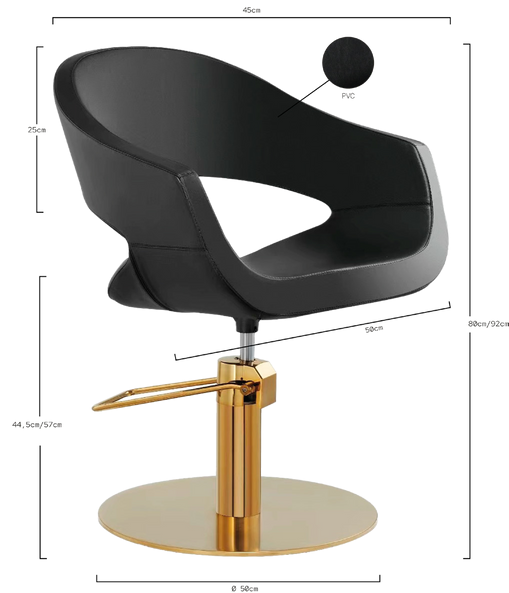
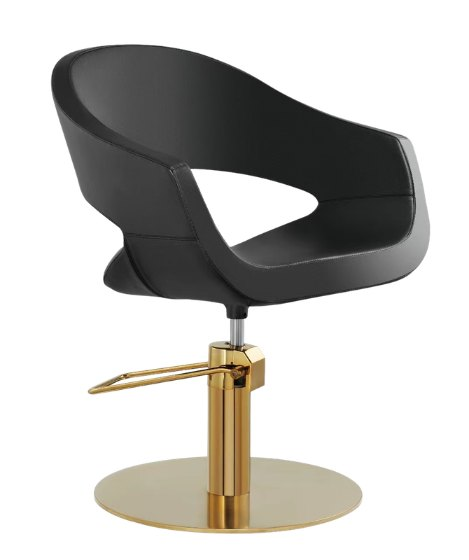
Fix foto FMP3/FMP4 + aggiunto FMP5 (Poltrone Lavoro)

diff --git a/index.html b/index.html
@@ -379,7 +379,7 @@ renderGroupedProducts(lavaggio, 'products-lavaggio');
 
 // ─── POLTRONE LAVORO ───
 // NB: sezione in costruzione — modelli caricati finora (gli altri in arrivo)
-const lavoro = [{"code":"FMP1","versions":[{"code":"FMP1A","col":"","price":"350€","img":"images-lavoro/pl_FMP1A.png"},{"code":"FMP1B","col":"","price":"340€","img":"images-lavoro/pl_FMP1B.png"},{"code":"FMP1C","col":"","price":"340€","img":"images-lavoro/pl_FMP1C.png"},{"code":"FMP1D","col":"","price":"350€","img":"images-lavoro/pl_FMP1D.png"},{"code":"FMP1E","col":"","price":"360€","img":"images-lavoro/pl_FMP1E.png"}]},{"code":"FMP2","versions":[{"code":"FMP2B","col":"","price":"360€","img":"images-lavoro/pl_FMP2B.png"},{"code":"FMP2A","col":"","price":"340€","img":"images-lavoro/pl_FMP2A.png"}]},{"code":"FMP3","single":true,"versions":[{"code":"FMP3","price":"340€","img":"images-lavoro/pl_FMP3.png","specs":"<b>Descrizione:</b> Sedia da taglio con schiuma iniettata di poliuretano ad alta densità e struttura interna in metallo. Base rotonda sottile rifinita in metallo cromato. Pompa idraulica bloccabile con freno. Rivestimento nero.<br><b>Comfort:</b> Schiuma iniettata di poliuretano + struttura interna in metallo<br><b>Qualità:</b> Base in metallo cromato sottile<br><b>Facile da pulire:</b> Monoblocco senza giunture<br><b>Dimensioni:</b> 60×61×45/57 cm<br><b>Peso:</b> 17 kg<br><b>Rivestimento:</b> PVC"}]},{"code":"FMP4","single":true,"versions":[{"code":"FMP4","price":"","img":"images-lavoro/pl_FMP4.png","specs":"<b>Descrizione:</b> Sedia con schiuma in\npoliuretano iniettato e\nstruttura interna in metallo\nper massimo comfort ed\neccellente durata.<br><b>Peso netto:</b> 49 kg<br><b>Peso lordo:</b> 59,5 kg<br><b>Carico massimo:</b> 180 kg"}]},{"code":"FMP6","versions":[{"code":"FMP6A","col":"BLACK GOLD","price":"360€","img":"images-lavoro/pl_FMP6A.png"},{"code":"FMP6B","col":"BEIGE GOLD","price":"360€","img":"images-lavoro/pl_FMP6B.png"},{"code":"FMP6C","col":"GREY GOLD","price":"360€","img":"images-lavoro/pl_FMP6C.png"},{"code":"FMP6D","col":"BEIGE BLACK","price":"360€","img":"images-lavoro/pl_FMP6D.png"},{"code":"FMP6E","col":"GREY BLACK","price":"360€","img":"images-lavoro/pl_FMP6E.png"},{"code":"FMP6F","col":"BROWN BLACK","price":"360€","img":"images-lavoro/pl_FMP6F.png"},{"code":"FMP6G","col":"ORANGE","price":"360€","img":"images-lavoro/pl_FMP6G.png"}]},{"code":"FMP7","versions":[{"code":"FMP7A","col":"BLACK","price":"390€","img":"images-lavoro/pl_FMP7A.png"},{"code":"FMP7B","col":"ORANGE","price":"390€","img":"images-lavoro/pl_FMP7B.png"},{"code":"FMP7C","col":"BEIGE","price":"390€","img":"images-lavoro/pl_FMP7C.png"}]},{"code":"FMP8","single":true,"versions":[{"code":"FMP8","price":"","img":null,"specs":""}]},{"code":"FMP9","versions":[{"code":"FMP9A","col":"BLACK","price":"390€","img":"images-lavoro/pl_FMP9A.png"},{"code":"FMP9B","col":"ORANGE","price":"390€","img":"images-lavoro/pl_FMP9B.png"},{"code":"FMP9C","col":"BEIGE","price":"390€","img":"images-lavoro/pl_FMP9C.png"}]},{"code":"FMP10","versions":[{"code":"FMP10B","col":"LACK","price":"390€","img":"images-lavoro/pl_FMP10B.png"},{"code":"FMP10O","col":"RANGE FMP BEIGE Sq","price":"390€","img":"images-lavoro/pl_FMP10O.png"}]},{"code":"FMP11","versions":[{"code":"FMP11A","col":"BROWN FMP","price":"370€","img":"images-lavoro/pl_FMP11A.png"}]},{"code":"FMP12","single":true,"versions":[{"code":"FMP12","price":"","img":null,"specs":""}]},{"code":"FMP13","versions":[{"code":"FMP13B","col":"BROWN","price":"430€","img":"images-lavoro/pl_FMP13B.png"},{"code":"FMP13A","col":"BLACK","price":"430€","img":"images-lavoro/pl_FMP13A.png"}]},{"code":"FMP14","single":true,"versions":[{"code":"FMP14","price":"","img":null,"specs":""}]},{"code":"FMP15","single":true,"versions":[{"code":"FMP15","price":"","img":null,"specs":""}]},{"code":"FMP16","versions":[{"code":"FMP16B","col":"GREY","price":"410€","img":"images-lavoro/pl_FMP16B.png"},{"code":"FMP16A","col":"BLACK","price":"410€","img":"images-lavoro/pl_FMP16A.png"}]},{"code":"FMP17","versions":[{"code":"FMP15G","col":"REY","price":"380€","img":"images-lavoro/pl_FMP15G.png"},{"code":"FMP15B","col":"LACK","price":"380€","img":"images-lavoro/pl_FMP15B.png"}]},{"code":"FMP18","single":true,"versions":[{"code":"FMP18","price":"","img":null,"specs":""}]},{"code":"FMP19","single":true,"versions":[{"code":"FMP19","price":"","img":null,"specs":""}]},{"code":"FMP20","versions":[{"code":"FMP20A","col":"BLACK","price":"320€","img":"images-lavoro/pl_FMP20A.png"},{"code":"FMP20B","col":"BROWN","price":"320€","img":"images-lavoro/pl_FMP20B.png"},{"code":"FMP20C","col":"BEIGE","price":"320€","img":"images-lavoro/pl_FMP20C.png"}]},{"code":"FMP21","single":true,"versions":[{"code":"FMP21","price":"","img":null,"specs":""}]},{"code":"FMP22","versions":[{"code":"FMP22B","col":"SILVER","price":"490€","img":"images-lavoro/pl_FMP22B.png"},{"code":"FMP22A","col":"GOLD","price":"490€","img":"images-lavoro/pl_FMP22A.png"}]},{"code":"FMP23","versions":[{"code":"FMP23B","col":"ROWN FMP BLACK","price":"360€","img":"images-lavoro/pl_FMP23B.png"}]},{"code":"FMP24","single":true,"versions":[{"code":"FMP24","price":"","img":null,"specs":""}]}];
+const lavoro = [{"code":"FMP1","versions":[{"code":"FMP1A","col":"","price":"350€","img":"images-lavoro/pl_FMP1A.png"},{"code":"FMP1B","col":"","price":"340€","img":"images-lavoro/pl_FMP1B.png"},{"code":"FMP1C","col":"","price":"340€","img":"images-lavoro/pl_FMP1C.png"},{"code":"FMP1D","col":"","price":"350€","img":"images-lavoro/pl_FMP1D.png"},{"code":"FMP1E","col":"","price":"360€","img":"images-lavoro/pl_FMP1E.png"}]},{"code":"FMP2","versions":[{"code":"FMP2B","col":"","price":"360€","img":"images-lavoro/pl_FMP2B.png"},{"code":"FMP2A","col":"","price":"340€","img":"images-lavoro/pl_FMP2A.png"}]},{"code":"FMP3","single":true,"versions":[{"code":"FMP3","price":"340€","img":"images-lavoro/pl_FMP3.png","specs":"<b>Descrizione:</b> Sedia da taglio con schiuma iniettata di poliuretano ad alta densità e struttura interna in metallo. Base rotonda sottile rifinita in metallo cromato. Pompa idraulica bloccabile con freno. Rivestimento nero.<br><b>Comfort:</b> Schiuma iniettata di poliuretano + struttura interna in metallo<br><b>Qualità:</b> Base in metallo cromato sottile<br><b>Facile da pulire:</b> Monoblocco senza giunture<br><b>Dimensioni:</b> 60×61×45/57 cm<br><b>Peso:</b> 17 kg<br><b>Rivestimento:</b> PVC"}]},{"code":"FMP4","single":true,"versions":[{"code":"FMP4","price":"390€","img":"images-lavoro/pl_FMP4.png","specs":"<b>Descrizione:</b> Sedia con schiuma in poliuretano iniettato e struttura interna in metallo per massimo comfort ed eccellente durata.<br><b>Peso netto:</b> 49 kg<br><b>Peso lordo:</b> 59,5 kg<br><b>Carico massimo:</b> 180 kg"}]},{"code":"FMP5","single":true,"versions":[{"code":"FMP5","price":"360€","img":"images-lavoro/pl_FMP5.png","specs":"<b>Descrizione:</b> Poltrona da lavoro con scocca avvolgente in schiuma di poliuretano iniettato ad alta densità e struttura interna in metallo. Base rotonda a disco verniciata nera. Pompa idraulica bloccabile con freno. Rivestimento nero.<br><b>Comfort:</b> Schiuma iniettata di poliuretano + struttura interna in metallo<br><b>Base:</b> Disco in metallo verniciato nero<br><b>Facile da pulire:</b> Monoblocco senza giunture<br><b>Rivestimento:</b> PVC"}]},{"code":"FMP6","versions":[{"code":"FMP6A","col":"BLACK GOLD","price":"360€","img":"images-lavoro/pl_FMP6A.png"},{"code":"FMP6B","col":"BEIGE GOLD","price":"360€","img":"images-lavoro/pl_FMP6B.png"},{"code":"FMP6C","col":"GREY GOLD","price":"360€","img":"images-lavoro/pl_FMP6C.png"},{"code":"FMP6D","col":"BEIGE BLACK","price":"360€","img":"images-lavoro/pl_FMP6D.png"},{"code":"FMP6E","col":"GREY BLACK","price":"360€","img":"images-lavoro/pl_FMP6E.png"},{"code":"FMP6F","col":"BROWN BLACK","price":"360€","img":"images-lavoro/pl_FMP6F.png"},{"code":"FMP6G","col":"ORANGE","price":"360€","img":"images-lavoro/pl_FMP6G.png"}]},{"code":"FMP7","versions":[{"code":"FMP7A","col":"BLACK","price":"390€","img":"images-lavoro/pl_FMP7A.png"},{"code":"FMP7B","col":"ORANGE","price":"390€","img":"images-lavoro/pl_FMP7B.png"},{"code":"FMP7C","col":"BEIGE","price":"390€","img":"images-lavoro/pl_FMP7C.png"}]},{"code":"FMP8","single":true,"versions":[{"code":"FMP8","price":"430€","img":"images-lavoro/pl_FMP8.png","specs":""}]},{"code":"FMP9","versions":[{"code":"FMP9A","col":"BLACK","price":"390€","img":"images-lavoro/pl_FMP9A.png"},{"code":"FMP9B","col":"ORANGE","price":"390€","img":"images-lavoro/pl_FMP9B.png"},{"code":"FMP9C","col":"BEIGE","price":"390€","img":"images-lavoro/pl_FMP9C.png"}]},{"code":"FMP10","versions":[{"code":"FMP10B","col":"LACK","price":"390€","img":"images-lavoro/pl_FMP10B.png"},{"code":"FMP10O","col":"RANGE FMP BEIGE Sq","price":"390€","img":"images-lavoro/pl_FMP10O.png"}]},{"code":"FMP11","versions":[{"code":"FMP11A","col":"BROWN FMP","price":"370€","img":"images-lavoro/pl_FMP11A.png"}]},{"code":"FMP12","single":true,"versions":[{"code":"FMP12","price":"370€","img":"images-lavoro/pl_FMP12.png","specs":""}]},{"code":"FMP13","versions":[{"code":"FMP13B","col":"BROWN","price":"430€","img":"images-lavoro/pl_FMP13B.png"},{"code":"FMP13A","col":"BLACK","price":"430€","img":"images-lavoro/pl_FMP13A.png"}]},{"code":"FMP14","single":true,"versions":[{"code":"FMP14","price":"410€","img":"images-lavoro/pl_FMP14.png","specs":""}]},{"code":"FMP15","single":true,"versions":[{"code":"FMP15","price":"390€","img":"images-lavoro/pl_FMP15.png","specs":""}]},{"code":"FMP16","versions":[{"code":"FMP16B","col":"GREY","price":"410€","img":"images-lavoro/pl_FMP16B.png"},{"code":"FMP16A","col":"BLACK","price":"410€","img":"images-lavoro/pl_FMP16A.png"}]},{"code":"FMP17","versions":[{"code":"FMP15G","col":"REY","price":"380€","img":"images-lavoro/pl_FMP15G.png"},{"code":"FMP15B","col":"LACK","price":"380€","img":"images-lavoro/pl_FMP15B.png"}]},{"code":"FMP18","single":true,"versions":[{"code":"FMP18","price":"390€","img":"images-lavoro/pl_FMP18.png","specs":""}]},{"code":"FMP19","single":true,"versions":[{"code":"FMP19","price":"290€","img":"images-lavoro/pl_FMP19.png","specs":""}]},{"code":"FMP20","versions":[{"code":"FMP20A","col":"BLACK","price":"320€","img":"images-lavoro/pl_FMP20A.png"},{"code":"FMP20B","col":"BROWN","price":"320€","img":"images-lavoro/pl_FMP20B.png"},{"code":"FMP20C","col":"BEIGE","price":"320€","img":"images-lavoro/pl_FMP20C.png"}]},{"code":"FMP21","single":true,"versions":[{"code":"FMP21","price":"450€","img":"images-lavoro/pl_FMP21.png","specs":""}]},{"code":"FMP22","versions":[{"code":"FMP22B","col":"SILVER","price":"490€","img":"images-lavoro/pl_FMP22B.png"},{"code":"FMP22A","col":"GOLD","price":"490€","img":"images-lavoro/pl_FMP22A.png"}]},{"code":"FMP23","versions":[{"code":"FMP23B","col":"ROWN FMP BLACK","price":"360€","img":"images-lavoro/pl_FMP23B.png"}]},{"code":"FMP24","single":true,"versions":[{"code":"FMP24","price":"330€","img":"images-lavoro/pl_FMP24.png","specs":""}]}];
 
 // Indice piatto versione→oggetto per il modale
 const lavoroIndex = {};
